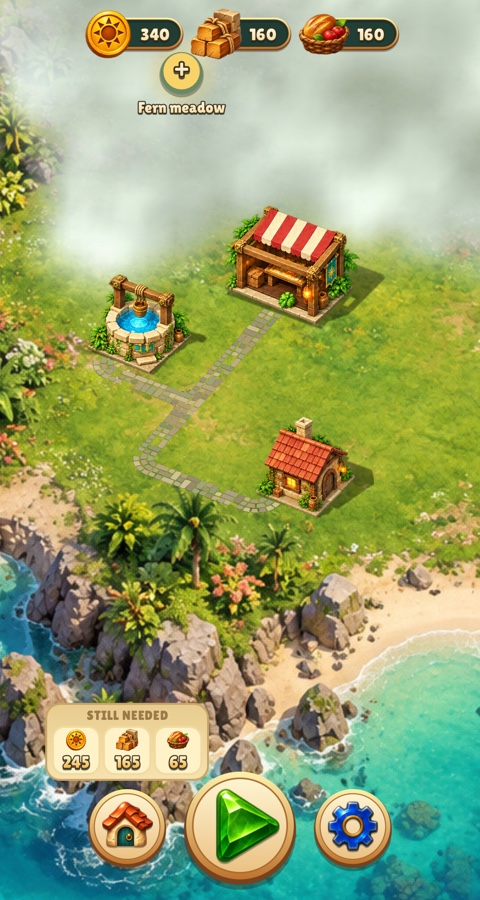
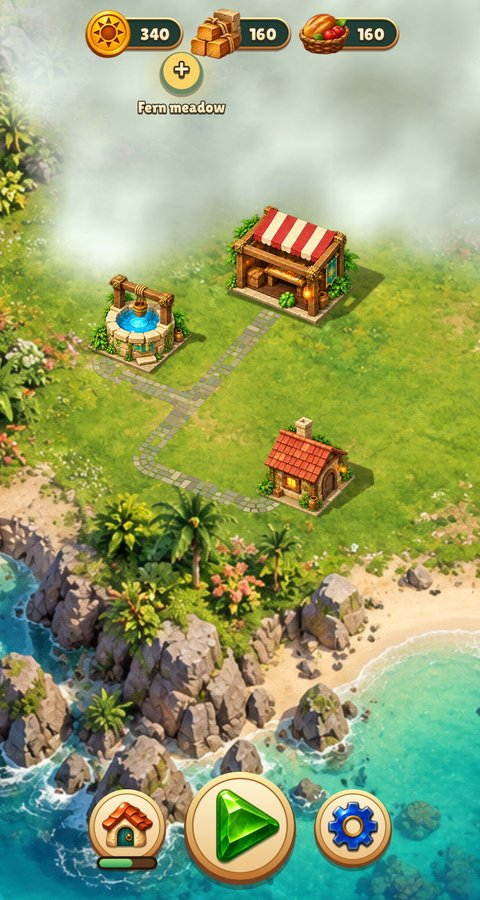
Show the next purchase's funding as the quest gauge under the Build button
The town's STILL NEEDED card above the Build button is gone. The button now
carries the request markers' jade gauge (buttons.gauge), filled by the share
of the price the wallet holds, the mean over the currencies it asks for. A
full gauge is not drawn; the ready trail says it. A funded purchase waiting
on an expedition still shows that level as a caption.

diff --git a/games/relic-rush/docs/asset-catalogue.md b/games/relic-rush/docs/asset-catalogue.md
@@ -173,7 +173,7 @@ to register `data/story/characters/keeper.png`. See the native review at
 
 ## Build progress
 
-Above the existing lower-left `action-build` house, the town reuses the skin's inset resource indicators for Coins, Supplies and Food still needed for the next campaign purchase. Each compact tile uses the corresponding painted wallet icon above the missing quantity. A fully funded purchase still waiting for a clear shows its expedition requirement. Once the purchase opens, the readout clears and the existing blue `fx-tablet-glow` and `fx-tablet-spark` trail circles the enamel rim. Reduce Motion hides the trail. The same house opens the card in each state. [Review and capture commands](square-match3.md#build-progress-captures).
+Across the bottom of the existing lower-left `action-build` house, the town draws the request markers' procedural jade gauge (`buttons.gauge`, the same gauge as `buttons.medallion`), filled by the share of the next campaign purchase's price the wallet holds (the mean over the currencies it asks for). There is no STILL NEEDED readout in the town; the Build card lists the amounts. A fully funded purchase still waiting for a clear shows its expedition requirement. Once the purchase opens, the readout clears and the existing blue `fx-tablet-glow` and `fx-tablet-spark` trail circles the enamel rim. Reduce Motion hides the trail. The same house opens the card in each state. [Review and capture commands](square-match3.md#build-progress-captures).
 
 ## Archived crew request pieces
 
